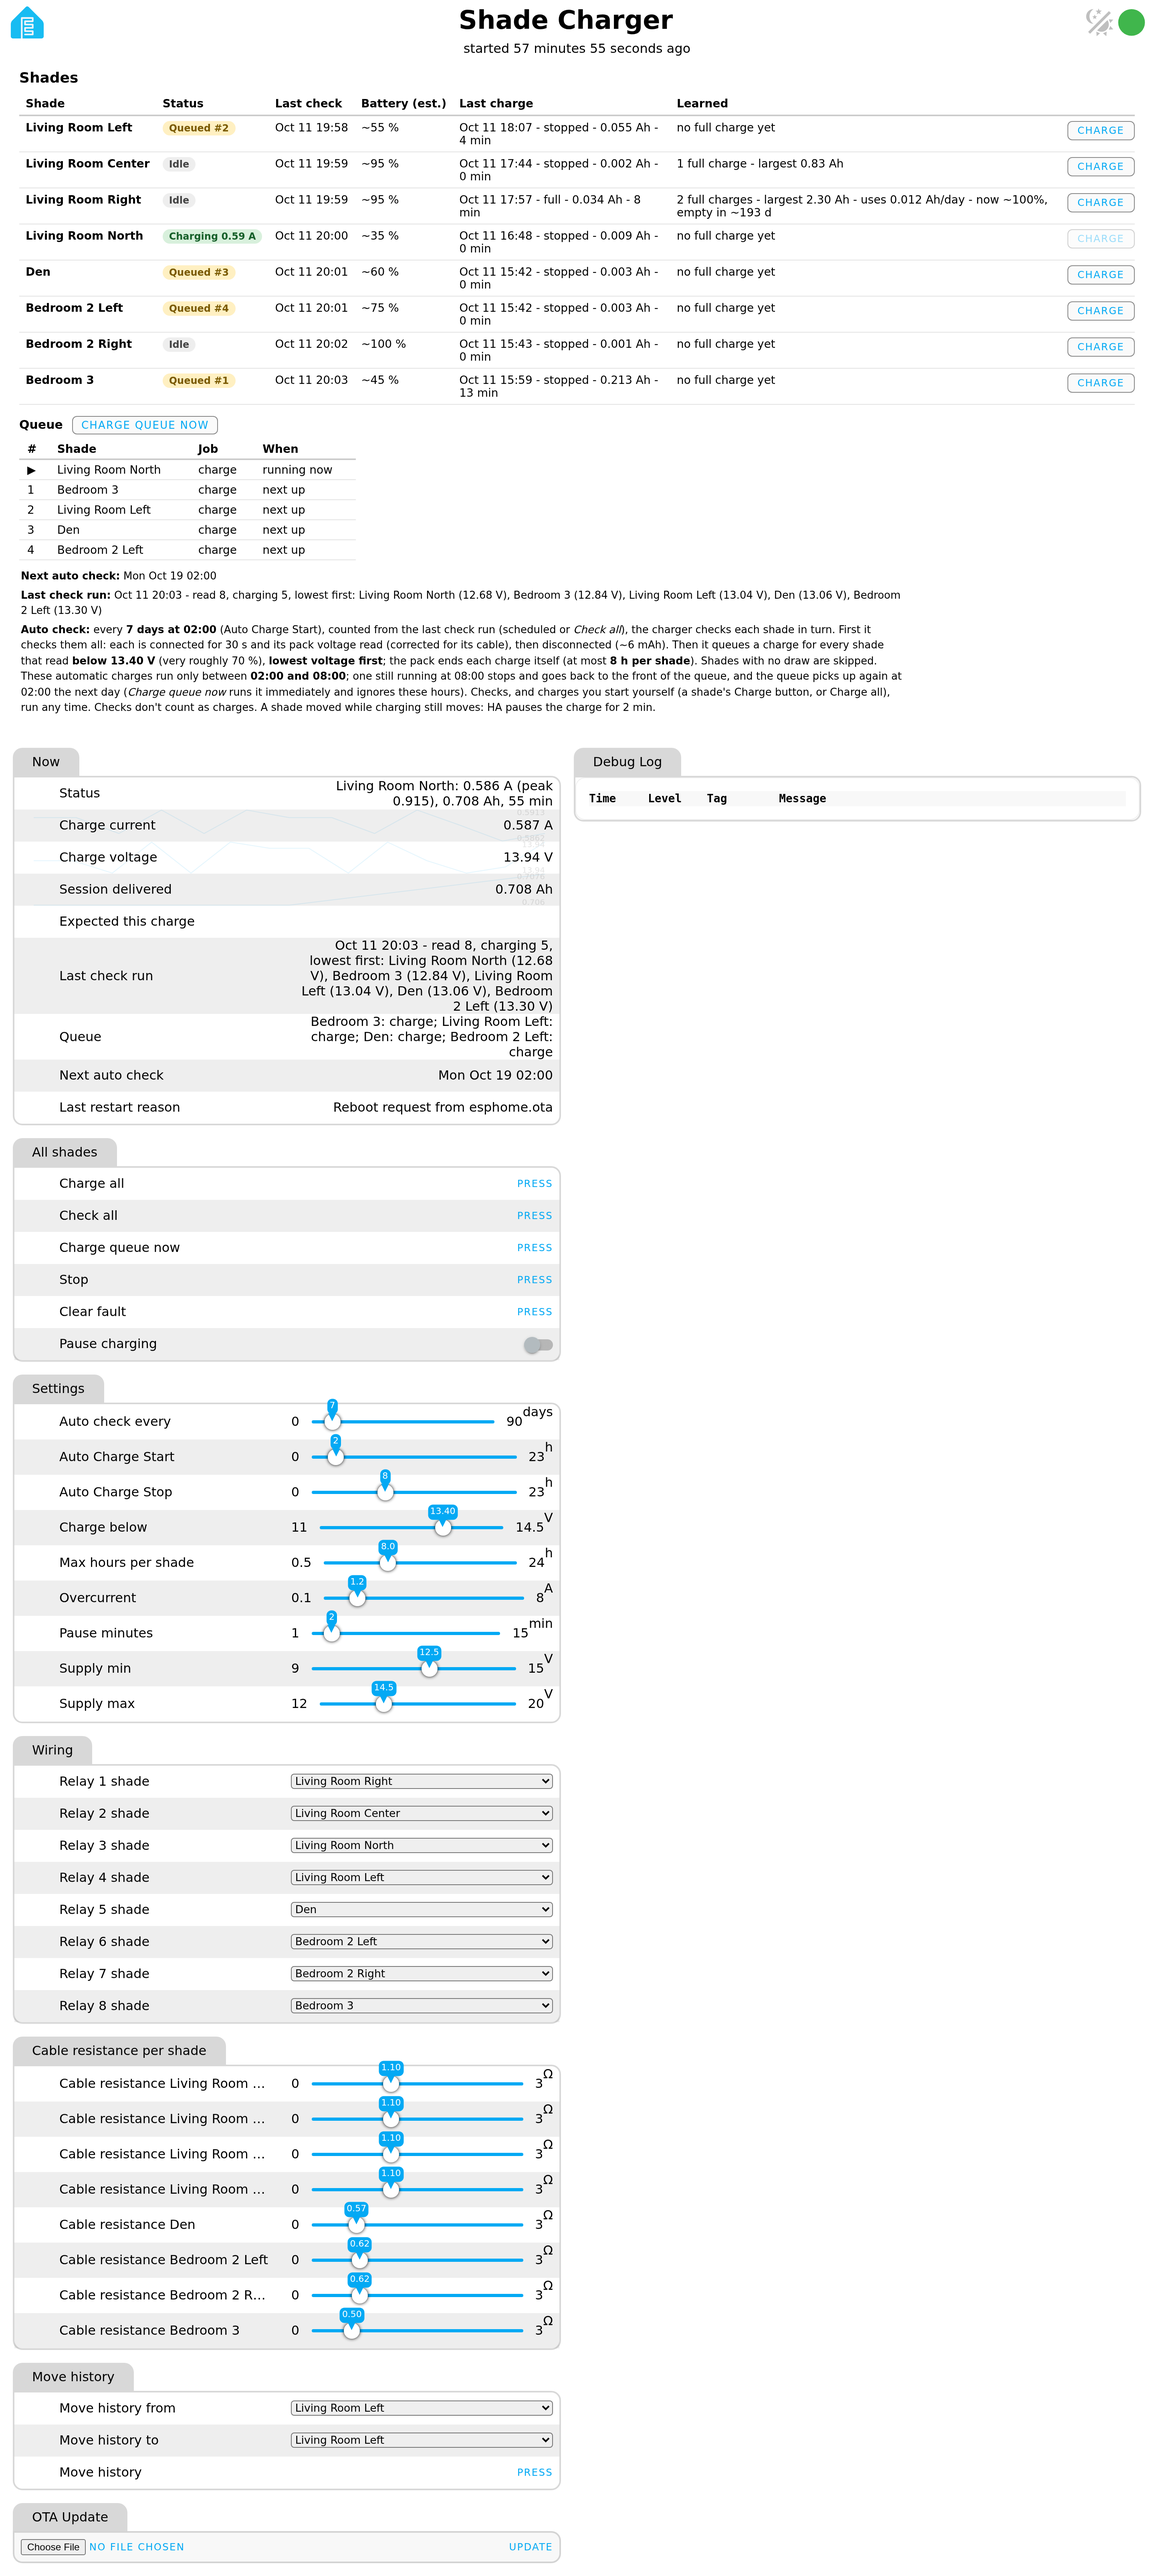
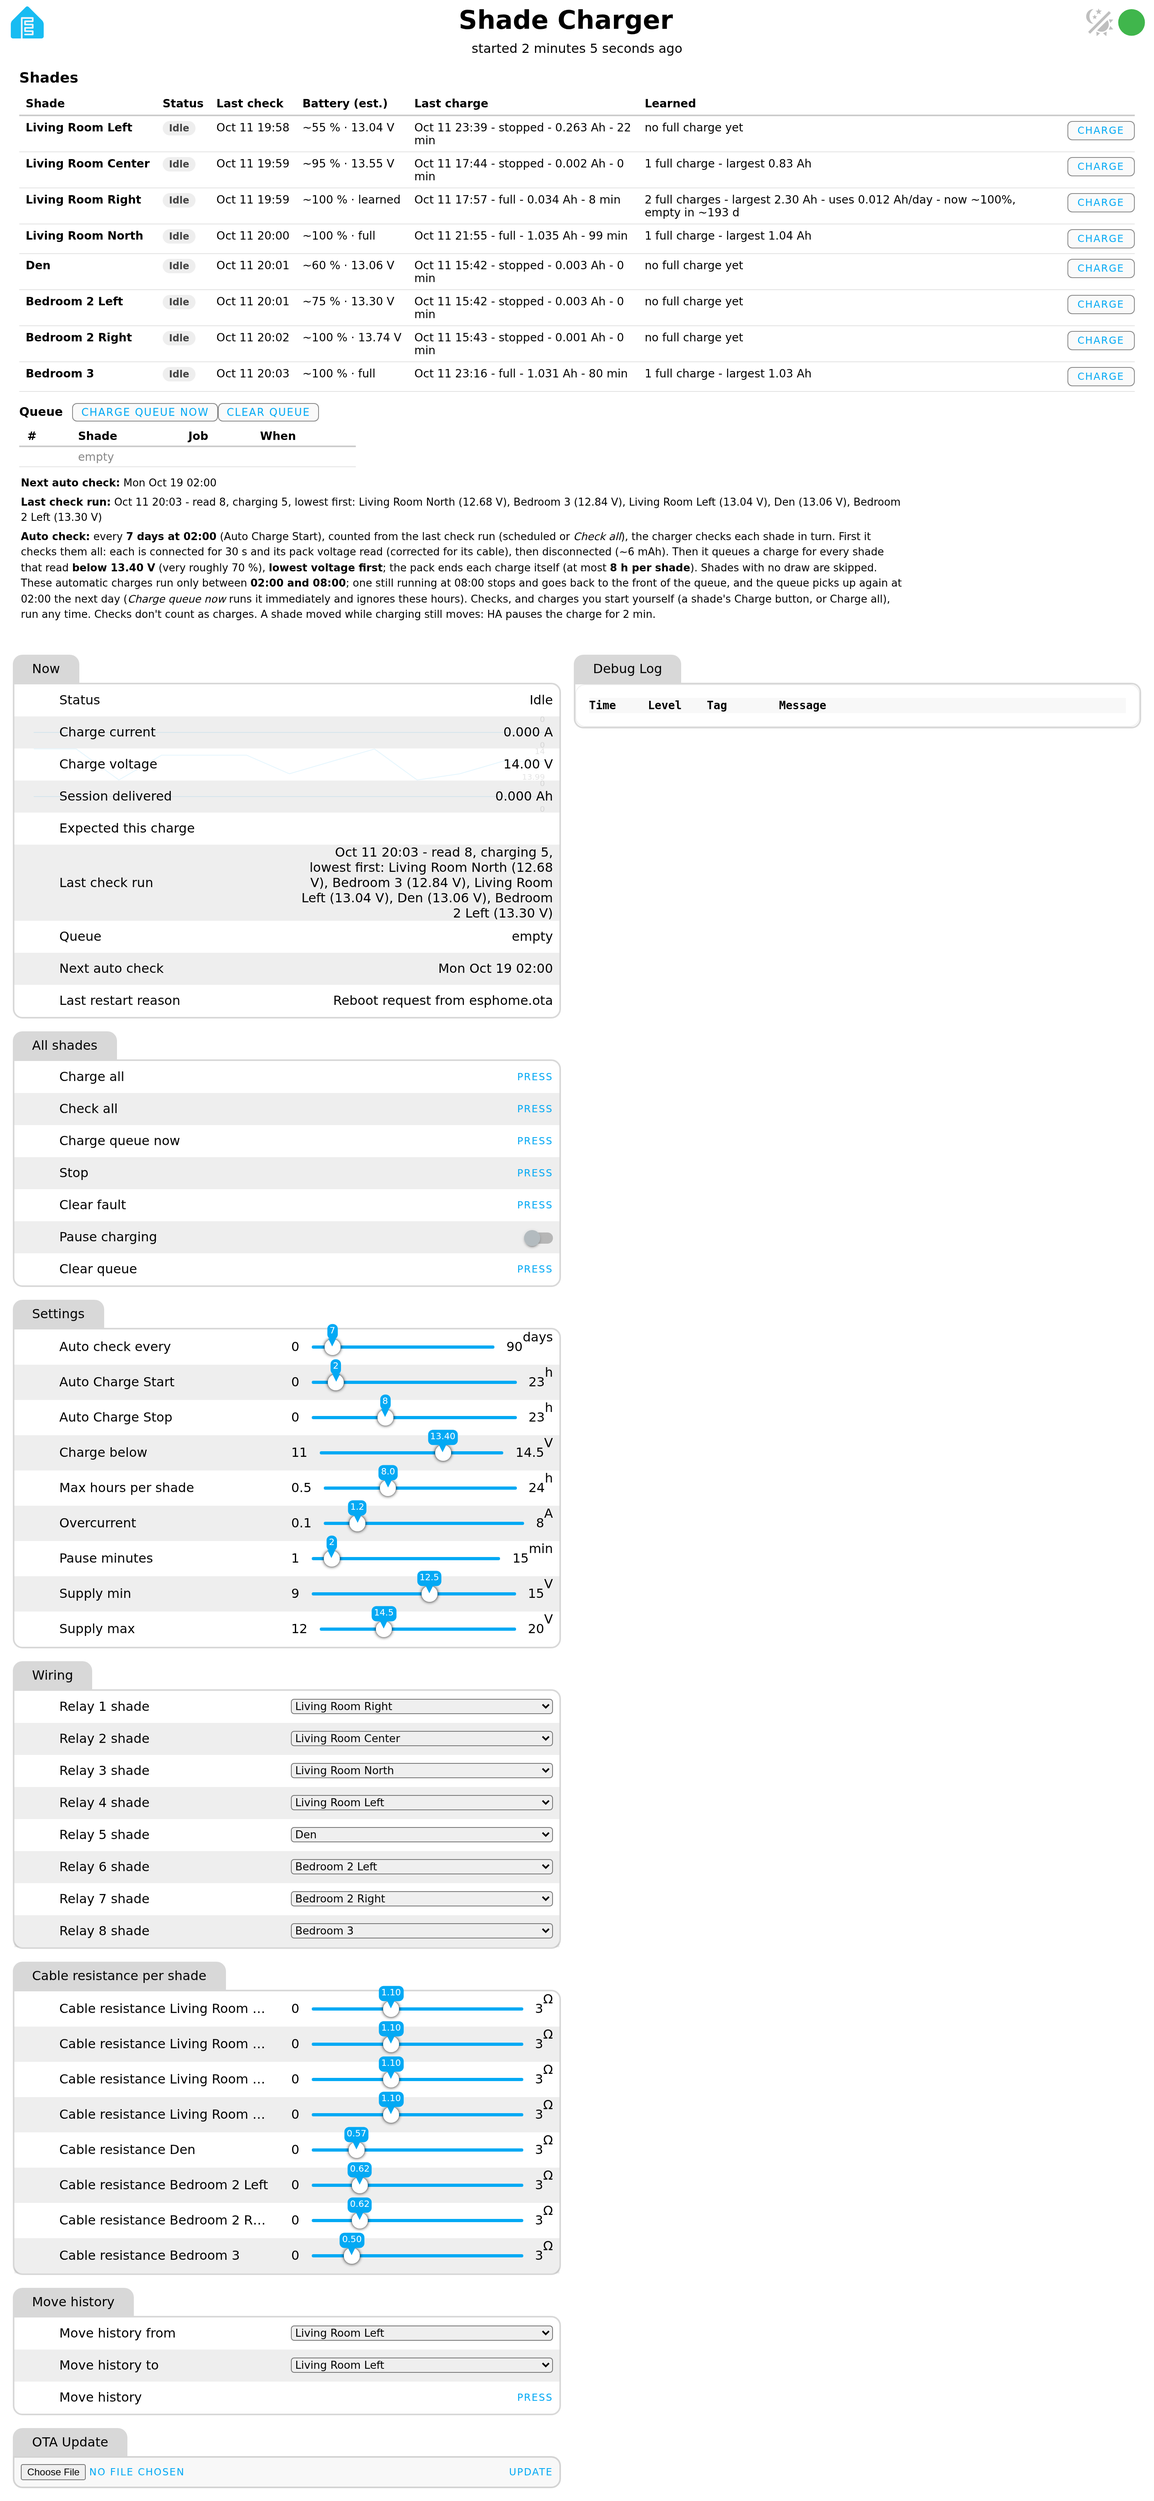
Stop holds the queue + Clear queue; full vs dropped-out by voltage and taper; live battery %; per-shade lines rebuilt hourly; fresh screenshots
- Stop ends the running job, puts it back at the front and holds the queue;
  Charge queue now (or any manual charge) resumes; Clear queue empties it.
- 'full' = the pack stopped at >= 13.4 V at the shade after the current had
  tapered below 80 % of peak (packs stop at 0.31-0.52 A depending on the
  charger), else DROPPED OUT.
- Battery (est.) is live while charging, 100 % after a full charge, keeps the
  end voltage of an unfinished charge, uses the learned 'now ~%' when known,
  and shows its source ('13.04 V', 'full', 'learned').

Claude-Session: https://claude.ai/code/session_01UHBYHn3S9tGKEUU4xMJnsL

Changed region(s): [[0.0, 0.0, 0.7812, 0.9997], [0.9062, 0.0312, 0.9688, 0.1562], [0.7812, 0.0625, 0.8125, 0.0937]]

diff --git a/esphome/shade-charger-table.js b/esphome/shade-charger-table.js
@@ -96,7 +96,11 @@
     qb.onclick = () => { qb.disabled = true;
       fetch("/button/" + encodeURIComponent("Charge queue now") + "/press", { method: "POST", body: "" })
         .catch(() => {}).finally(() => setTimeout(() => { qb.disabled = false; }, 3000)); };
-    qh.appendChild(qb); qd.appendChild(qh);
+    const qc = el("button", "", "Clear queue"); qc.id = "sc-qclr"; qc.className = "";
+    qc.style.cssText = "margin-left:8px;padding:3px 10px;border-radius:6px;border:1px solid #888;background:#fafafa;cursor:pointer;font-size:13px";
+    qc.onclick = () => { if (!confirm("Remove everything waiting in the queue?")) return;
+      fetch("/button/" + encodeURIComponent("Clear queue") + "/press", { method: "POST", body: "" }).catch(() => {}); };
+    qh.appendChild(qb); qh.appendChild(qc); qd.appendChild(qh);
     const qt = el("table"); qt.id = "sc-qt";
     const qhr = el("tr"); ["#", "Shade", "Job", "When"].forEach(h => qhr.appendChild(el("th", "", h)));
     const qth = el("thead"); qth.appendChild(qhr); qt.appendChild(qth); qt.appendChild(el("tbody"));
@@ -160,9 +164,15 @@
       if (ci >= 0) { learned = learnedFull.slice(0, ci); check = learnedFull.slice(ci + 11); }
       learned = learned.replace(" - use per day known after its next full charge", "")
                        .replace("no completed charge yet", "no full charge yet");
+      // "... - start 13.04 V - end 13.31 V": the end voltage (an unfinished charge)
+      // is the newer reading; the start voltage otherwise.
       let details = line, volt = "";
       const vi = line.indexOf(" - start ");
-      if (vi >= 0) { details = line.slice(0, vi); volt = line.slice(vi + 9); }
+      if (vi >= 0) {
+        details = line.slice(0, vi);
+        const em = / - end ([0-9.]+) V/.exec(line), sm = / - start ([0-9.]+) V/.exec(line);
+        volt = em ? em[1] : (sm ? sm[1] : "");
+      }
       if (line === "never charged") details = "never charged";
       // Last check: date/time only. Battery: from the newer of the last check
       // reading and the last charge's start voltage.
@@ -173,8 +183,22 @@
       const startV = volt ? parseFloat(volt) : null;
       let v = startV;
       if (checkV && (!startV || when(checkWhen) >= when(details))) v = checkV;
-      const pct = socFromV(v);
-      const batt = pct === null ? "" : "~" + (Math.round(pct / 5) * 5) + " %";
+      // Order of preference: live while this shade is on the charger (the
+      // voltage at the shade now, same conditions as the curve); 100 % right
+      // after a "full" result (newer than the last check); the learned
+      // "now ~N%" once a shade has a use-per-day; else the newest reading.
+      let pct = socFromV(v), live = false, src = v > 0 ? v.toFixed(2) + " V" : "";
+      const runNow = st("text_sensor/Status");
+      if (runNow.startsWith(name + ":") && / A \(peak/.test(runNow)) {
+        const bv = parseFloat(st("sensor/Charge voltage")), ba = parseFloat(st("sensor/Charge current"));
+        const r = parseFloat(st("number/Cable resistance " + name)) || 0;
+        if (bv > 0 && ba > 0) { const lv = bv - r * ba; pct = Math.min(99, socFromV(lv)); live = true; src = lv.toFixed(2) + " V"; }
+      } else {
+        const lm = /now ~(\d+)%/.exec(learnedFull);
+        if (/ - full/.test(details) && when(details) >= when(checkWhen)) { pct = 100; src = "full"; }
+        else if (lm) { pct = parseFloat(lm[1]); src = "learned"; }
+      }
+      const batt = pct === null ? "" : "~" + (Math.round(pct / 5) * 5) + " %" + (src ? " \u00b7 " + src : "") + (live ? " \u26a1" : "");
 
       const tr = el("tr");
       tr.appendChild(el("td", "name", name));
@@ -218,8 +242,9 @@
         if (k < 0) continue;
         const what = it.slice(k + 2);
         const m = /^charge from (\d\d:\d\d)$/.exec(what);
+        const held = /^Stopped - queue held/.test(s);
         row([String(++n), it.slice(0, k), what === "check" ? "check" : "charge",
-             m ? "waits for " + m[1] : "next up"]);
+             held ? "held (Charge queue now)" : m ? "waits for " + m[1] : "next up"]);
       }
     }
     if (!run && n === 0) row(["", "empty", "", ""], "sc-dim");

diff --git a/README.md b/README.md
@@ -22,15 +22,21 @@ charging that happens overnight without anyone plugging cables in.
 - **Charge window.** Automatic charges run between two hours (default 02:00–08:00).
   A charge still running at the end stops and resumes the next night. Checks and
   manual charges run any time; *Charge queue now* ignores the window.
-- **Knows when a pack is full, or when it isn't.** The pack ends its own charge
-  (the current steps from ~0.33 A to 0). The charger tells that apart from a blown
-  fuse or loose plug (**DROPPED OUT**), a run whose cable is too long to finish
-  (**full (cable-limited)**), and a pack that never stops (**time cap**).
+- **Knows when a pack is full, or when it isn't.** The pack ends its own charge:
+  the current steps to 0 near the top (seen from 0.31–0.52 A). It counts as
+  **full** when that happens at ≥ 13.4 V at the shade, after the current has already
+  tapered below 80 % of its peak. Vanishing at full charge current, or at a low
+  voltage, is a blown fuse or loose plug (**DROPPED OUT**). A taper that stops moving
+  is a cable too long to finish (**full (cable-limited)**), and a pack that never
+  stops hits the **time cap**.
 - **Safety faults latch** until cleared, and name the shade: overcurrent, current
   sensor failure, a relay watchdog, and the supply voltage being out of range.
 - **Per-shade history and learning:** the last 8 charges, the largest charge (a
   capacity floor), Ah used per day, an estimated charge level, and a voltage→Ah fit
   once there are enough charges.
+- **Stop holds, it doesn't clear.** *Stop* ends the running job, puts it back at the
+  front of the queue and holds the queue; *Charge queue now* resumes it (as does any
+  manual *Charge*). *Clear queue* empties it.
 - **Shades still move while charging.** A Somfy motor ignores commands while its
   charger is connected. A Home Assistant automation pauses the charger and re-sends
   the command, and the charge resumes 2 minutes later.
@@ -63,8 +69,8 @@ ESP32 mid-charge. *Last restart reason* on the page tells a brownout from a cras
 
 - **The charger sets the current; the pack only decides when to stop.** In bulk
   the pack takes whatever the charger can give, and its controller cuts off at
-  ~0.31–0.35 A. A full pack still takes a short top-up (~0.03 Ah) whenever it is
-  reconnected.
+  ~0.31–0.35 A on a 0.74 A charger, ~0.52 A on a 0.98 A one. A full pack still
+  takes a short top-up (~0.03 Ah) whenever it is reconnected.
 - **Cable resistance matters, but less than you'd think.** Runs measured 0.5–1.1 Ω
   out and back (fuse, relay, cable, joints). Because the pack's cutoff is a current,
   a 1.1 Ω run still finished "full". The thin factory charge lead (~22–24 AWG) cost
@@ -86,6 +92,11 @@ check, cable-corrected) onto a curve built from the first packs measured:
 | 12.26 | 9 |
 | 13.20 | 67 |
 | 13.60 | 100 |
+
+It updates **live while a shade charges** (from the voltage at the shade now), shows
+**100 %** after a full charge, keeps the **end voltage** of a charge that stopped
+early, and switches to the shade's learned "now ~%" once it has a use-per-day. The
+column shows what each figure is based on, e.g. `~55 % · 13.04 V`, `~100 % · full`.
 
 It's rough. It assumes ~2.5 Ah packs, and the voltage also depends on the charge
 current (a full pack draws little, so it reads lower). A full charge from low gives
